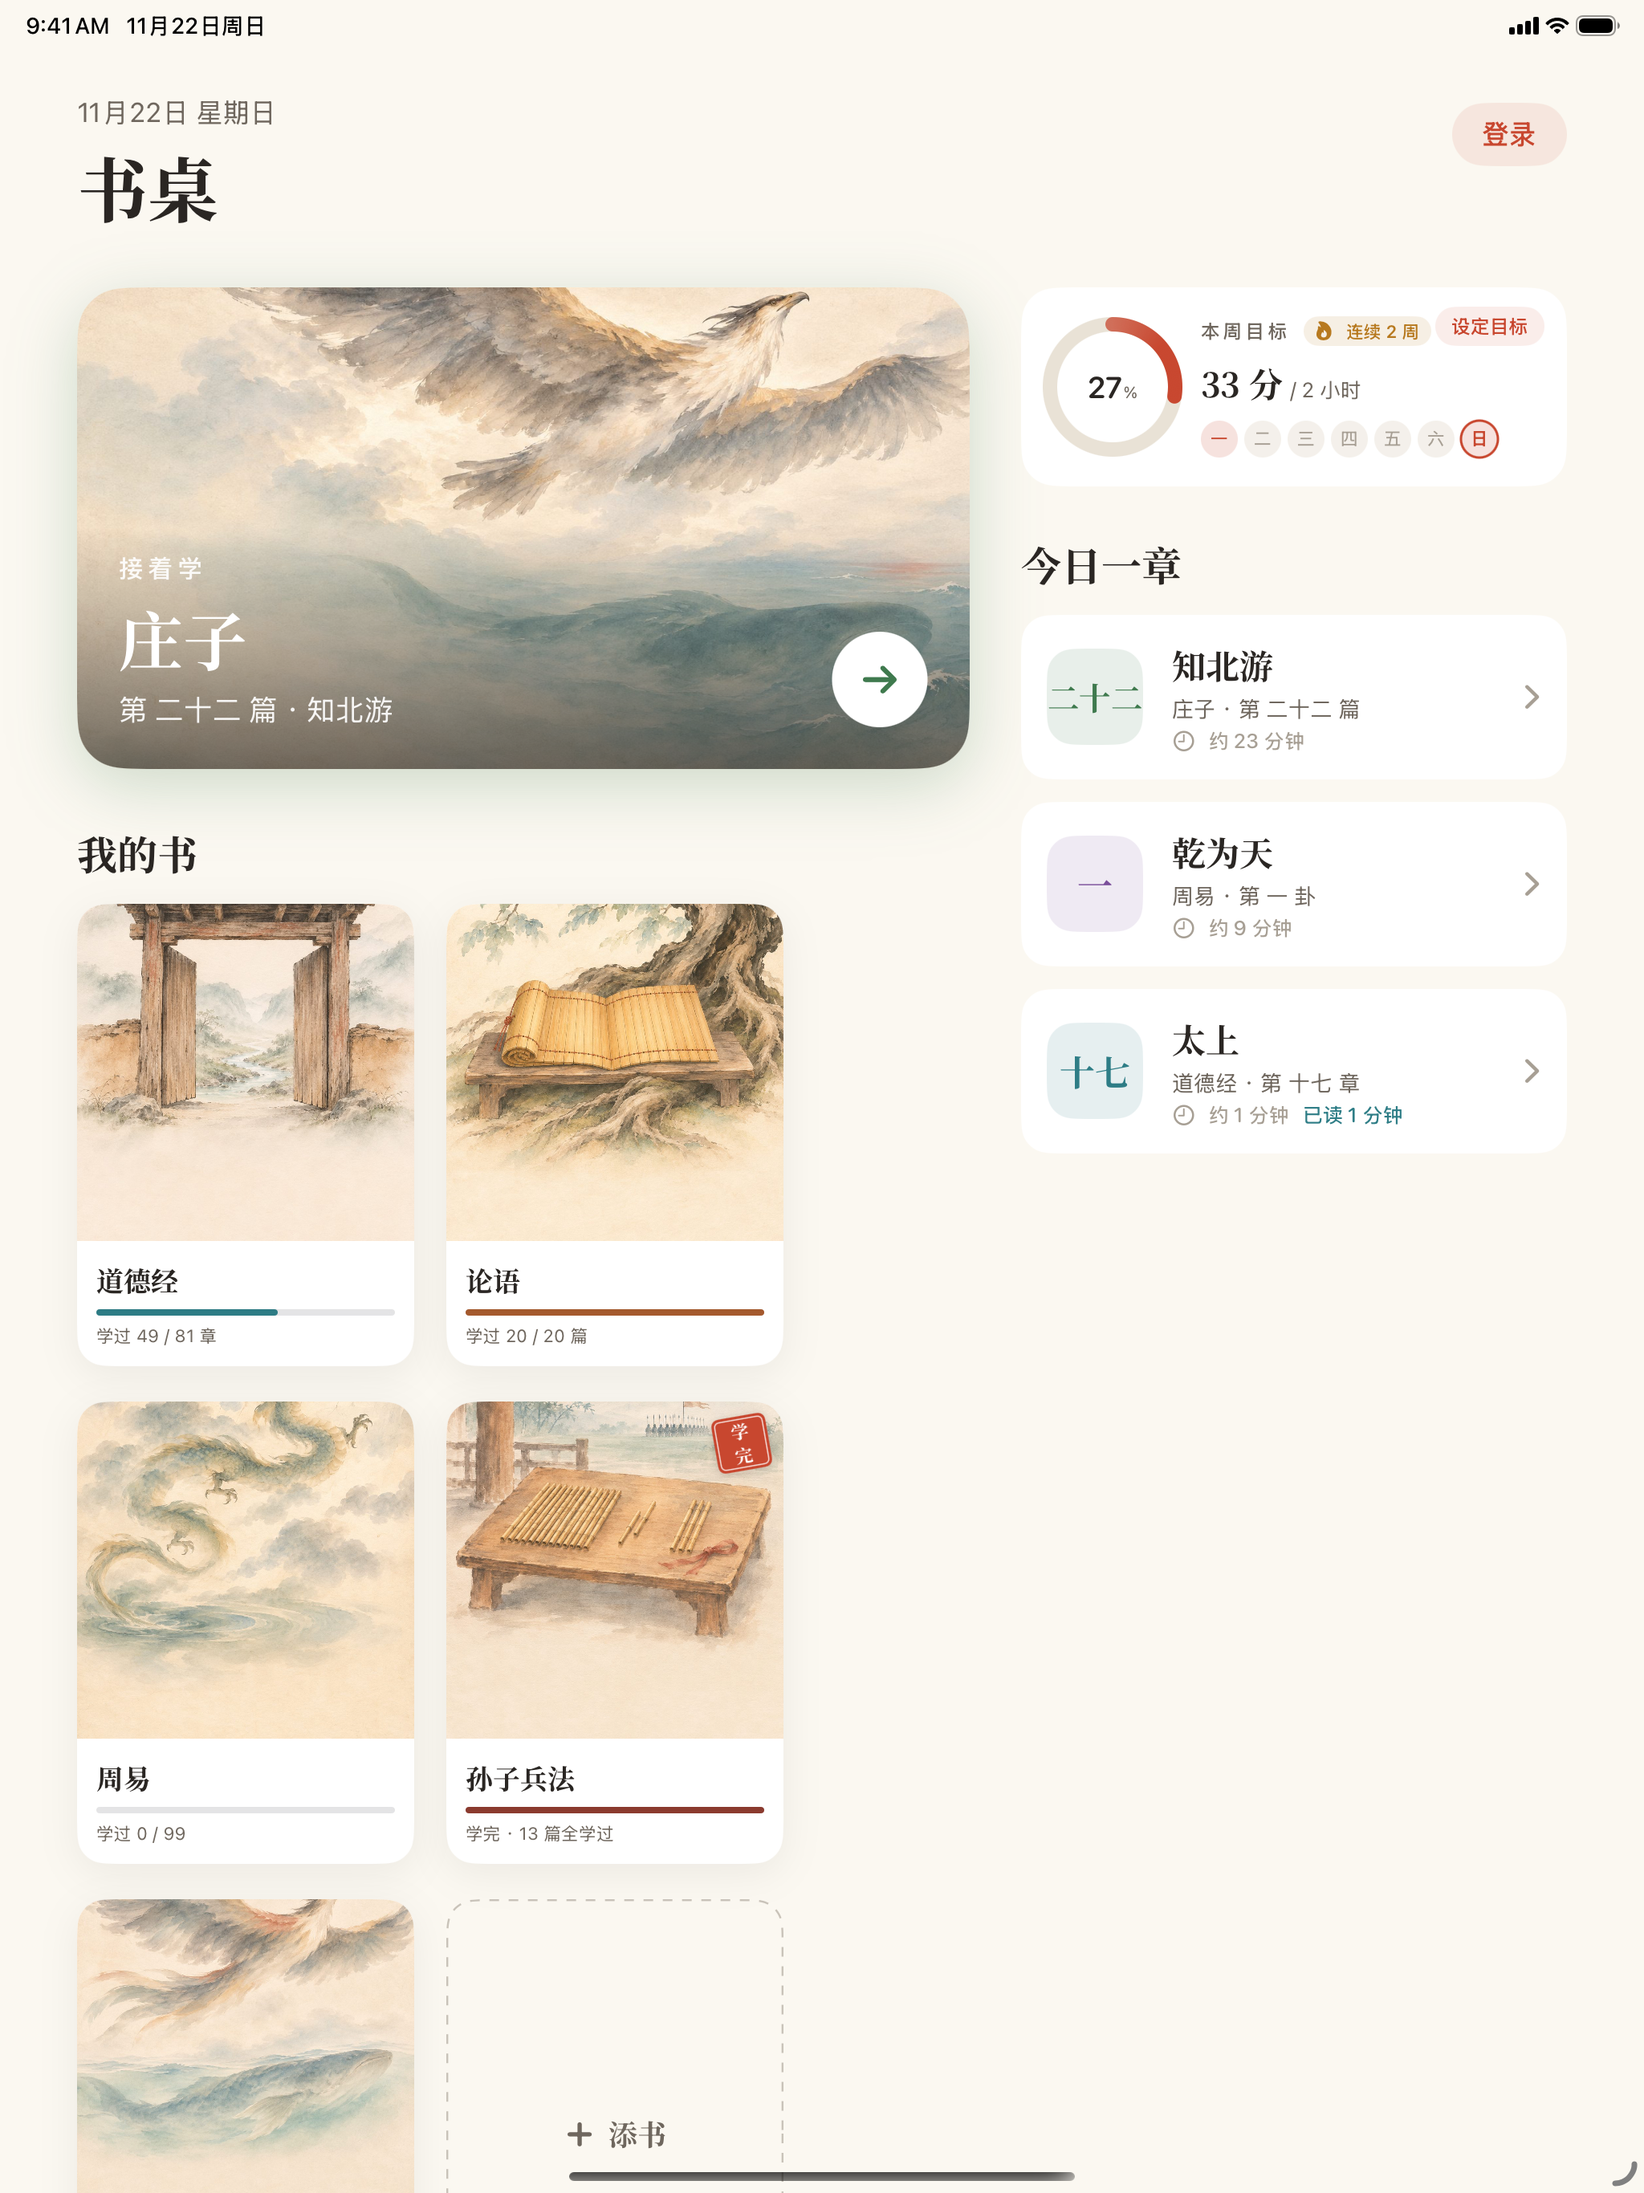
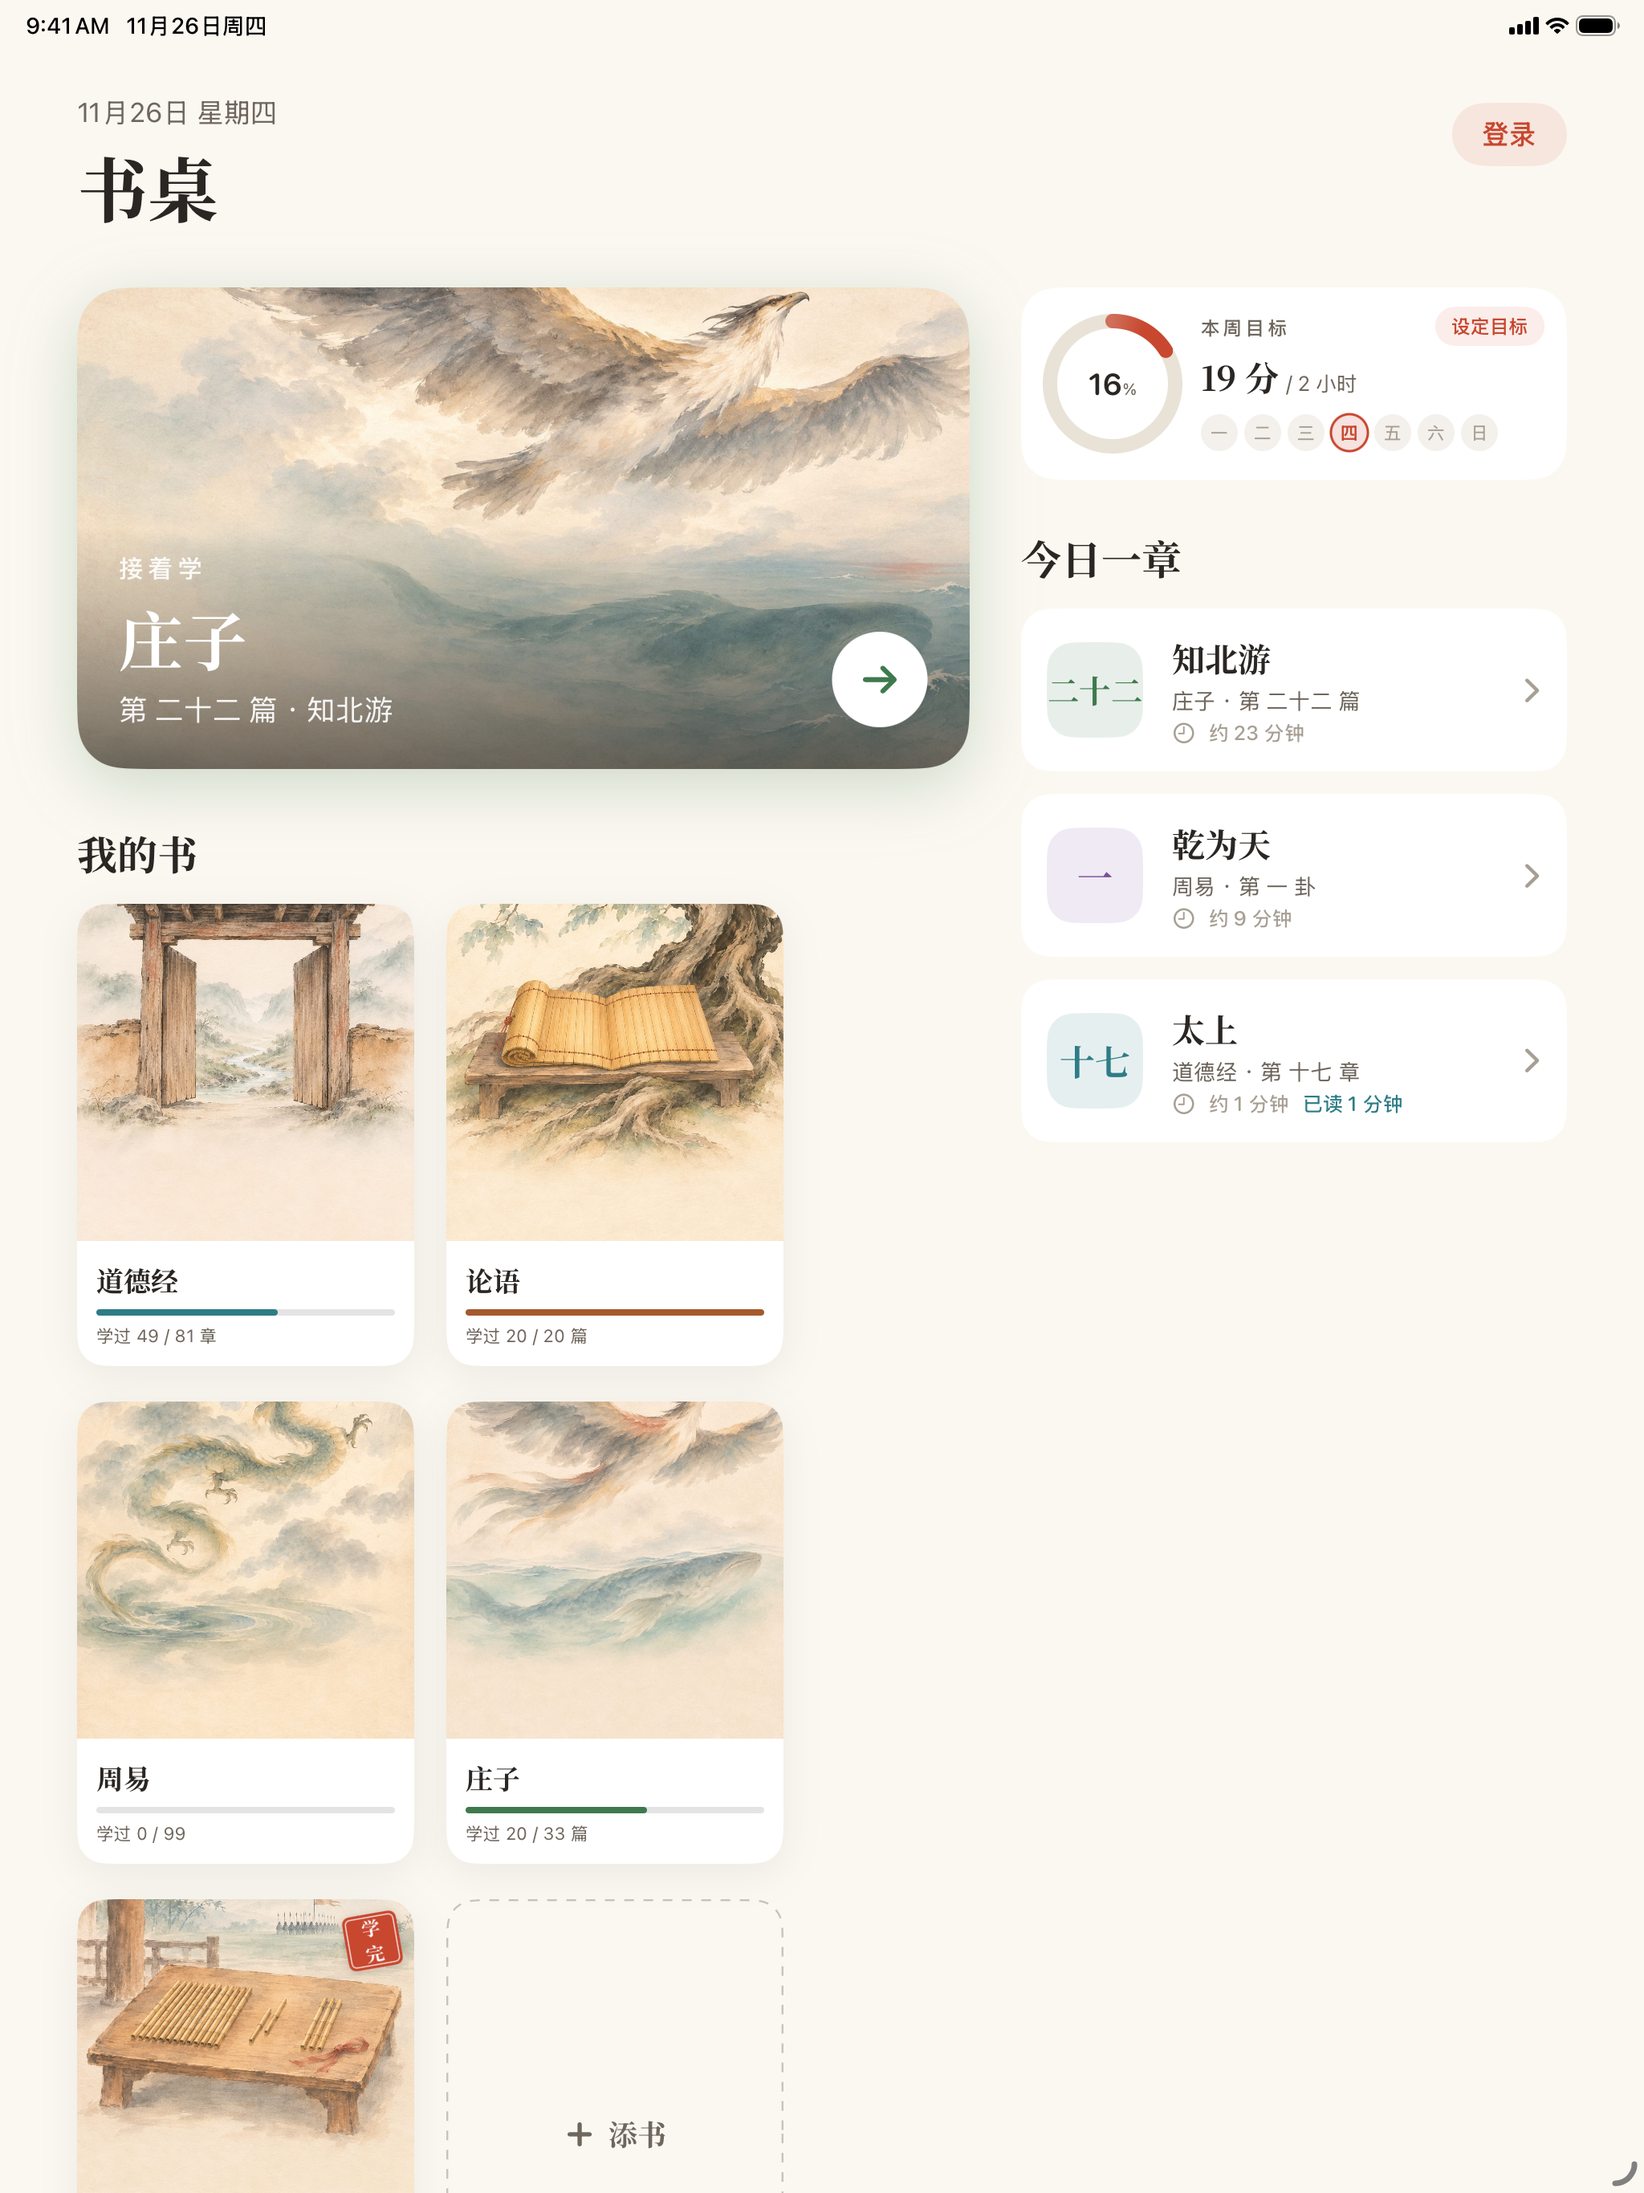
书桌送审材料按 79 部更新:商店文案与关键词重写、截图重截(两种尺寸各 9 张,加添书书目 / 书首页 / 导入的书)、送审备注补试导入与命理说明;隐私页补「导入的书只存本机」

diff --git a/src/features/PrivacyPage.jsx b/src/features/PrivacyPage.jsx
@@ -75,6 +75,7 @@ export default function PrivacyPage() {
           <li><strong>登录方式</strong>:邮箱、通过 Apple 登录、Google 登录。用 Apple 登录并选择隐藏邮箱时,我们只拿到 Apple 提供的中转地址。</li>
           <li><strong>换账号</strong>:同一台设备换另一个账号登录时,App 会先问你要不要把本机的记录并入新账号,不会自行合并。</li>
           <li><strong>注销账号</strong>:在 App 的账号页里可直接注销,云端数据随之删除;用 Apple 登录的账号,注销时一并向 Apple 撤销授权。</li>
+          <li><strong>导入的书</strong>:你自己导入的书包(.deskbook)只存在这台设备上,不上传、不同步,我们看不到它的内容;删掉这本书或删掉 App,它就没了。登录后,你在这本书里的阅读进度、学习时长、划线与批注照常同步(划线会带上划中的那几句原话),书本身仍不上传。</li>
           <li>App 内没有广告,没有第三方统计或追踪代码。</li>
         </ul>
       </section>

diff --git a/docs/desk-appstore.md b/docs/desk-appstore.md
@@ -7,17 +7,22 @@
 
 **名称**(30 字内):观象 · 书桌
 
-**副标题**(30 字内):只摆正在学的几本古籍
+**副标题**(30 字内):挑几部古籍,逐词详注着读
 
 **宣传文本**(170 字内,可随时改,不用过审):
-道德经、论语、周易、孙子兵法、鬼谷子、庄子,六部先上桌。原文一页一页翻,点一个词看详注,轻点一段看译文,读完一章再往深里读一篇白话。学了多少,有账可查。
+七十九部古籍,从周易、论语、道德经到古文观止、唐诗宋词、黄帝内经。挑几部摆上书桌,原文一页一页翻,点一个词看详注,轻点一段看译文,读完一章再读一篇白话长文。自己写的书也能做成书包导入。学了多少,有账可查。
 
 **描述**:
 
-书桌上不用摆很多书。挑几本正在学的,打开就接着上次读。
+书桌上不用摆很多书。从七十九部古籍里挑几部正在学的,打开就接着上次读。
+
+【书目】
+· 七十九部:易、道、儒、佛、心学、法、墨、兵、纵横、古文、诗词曲、中医、谋略、命理十四类
+· 原文取流传最广的通行本,逐段译文、字词注
+· 每部书有封面与题图,每章一张淡彩水墨题头
 
 【读原文】
-· 一页一页翻,字够大,版面干净
+· 一页一页翻,字够大,版面干净;iPad 横屏双栏
 · 轻点一段,展开这一段的译文
 · 点带虚线的词,先看一句话释义,再看一段展开——为什么这么讲、各家怎么说
 · 周易每卦带卦画,六爻、彖传、象传各归其位
@@ -25,12 +30,16 @@
 【往深里读】
 · 每章一篇白话长文,把这一章讲透
 · 文中的图解按手机和平板重新排过:对比、流程、结构、时间线、卦画
-· 每章一张淡彩水墨题图
 
 【划线与批注】
 · 原文、译文、白话都能划线,四种颜色,可加批注
 · 记录按书归拢,点一条回到原处
 · 长按选字,查这个词在本书里的全部出处
+
+【导入自己的书】
+· 按公开的「书包」格式(.deskbook)把自己的讲义、笔记做成一本书,从「文件」、隔空投送或一条链接导入
+· 导入的书只存在这台设备上,不上传
+· 带全书总纲、思维导图、「先想再看」问答的书,在书桌里有专门的版式
 
 【有账可查】
 · 记学习时长,不记打开次数
@@ -42,12 +51,10 @@
 · 登录后与观象网站(hexa.gavin.pub)共用账号,进度、时长、划线云端同步
 · 支持邮箱、通过 Apple 登录、Google 登录;可在 App 内注销账号
 
-首发六部:道德经、论语、周易、孙子兵法、鬼谷子、庄子。内容来自观象的研读底本:原文取通行本,逐段译注。
-
-本 App 用于古籍研习。周易部分只讲经传文本与义理,不提供占卜、算命功能。
+本 App 用于古籍研习。周易只讲经传文本与义理,命理诸书只作文献研读,都不提供占卜、排盘、算命功能;中医诸书只作训诂与医史阅读,不提供医疗建议。
 
 **关键词**(100 字符内,逗号分隔):
-古籍,国学,道德经,论语,周易,易经,庄子,孙子兵法,鬼谷子,文言文,译注,读书笔记,经典,阅读
+古籍,国学,文言文,译注,详注,白话,道德经,论语,周易,庄子,孙子兵法,唐诗,宋词,古文观止,读书笔记,划线
 
 **类别**:主类「图书」,次类「教育」
 
@@ -78,11 +85,14 @@
 
 > 本 App 与同一开发者的「观象」(bundle id pub.gavin.hexa)内容同源,但不是同一个产品:
 > 「观象」是网页套壳的书库(一百多部书的检索与浏览);「观象 · 书桌」是纯原生(SwiftUI / TextKit)的学习工具,
-> 只放用户自己选的几本书,核心是分页阅读、逐词详注、划线批注、学习时长统计与每周目标,这些在「观象」里没有。
+> 只放用户自己选的几本书,核心是分页阅读、逐词详注、划线批注、学习时长统计与每周目标,以及导入用户自己做的书包(.deskbook),这些在「观象」里没有。
 > 两者共用账号,便于用户在两端接续。
 >
 > 测试账号:(owner 送审前在生产建一个专用的测试账号,填在这里;也可以不登录直接使用全部阅读功能)
-> 周易部分仅为经传文本与注释的阅读,不含占卜或运势功能。
+> 添书:首页「添书」列出全部 79 部古籍,点一部即下载到本机。
+> 导入:书包(.deskbook)格式是公开的(https://hexa.gavin.pub/desk/standard/)。试导入:复制 https://hexa.gavin.pub/desk/standard/samples/sample-book.deskbook → 首页「添书」→ 左上角「导入」→「粘贴书包链接」;也可用「文件」打开 .deskbook。导入的书只存在设备上,不上传服务器。
+> 「书房」入口只对开发者本人的账号显示,审核账号看不到,属正常。
+> 周易部分仅为经传文本与注释的阅读;命理类古籍(如《渊海子平》《滴天髓》)只提供原文、译文与注释,不含排盘、占卜或运势功能。中医类古籍只作文献阅读,不提供医疗建议。
 > 注销账号:首页右上角账号 → 关于 / 账号 → 注销账号。
 
 **4.3(重复 App)风险**:同一开发者、内容同源、名字都带「观象」。上面的备注是对策,不保证一次过;被拒时的退路是在备注里补截图对照,或把名字改成不带「观象」的(如只叫「书桌」)。
@@ -97,14 +107,14 @@
 4. **隐私页补一节**:`/privacy` 加「观象 · 书桌」:收集什么、存在哪、怎么注销(我可以先写好,随第 1 项一起发)。
 5. **测试账号**:在生产建一个送审用的账号(我不在生产建账号)。
 6. ~~挑图标~~:owner 11-22 选了 ③ 灯,已接进工程(`Assets.xcassets/AppIcon.appiconset/icon-1024.png`,Codex 写的 prompt 留在 `apps/desk/store/icon-prompt.txt`)。
-7. **定稿文案**、看一遍商店截图(`apps/desk/store/shots/`)。
+7. **定稿文案**、看一遍商店截图(`apps/desk/store/shots/`,11-26 按 79 部重截,两种尺寸各 9 张)。
 8. **真机走一遍**:TestFlight 装上后,三种登录各走一次(Apple 登录与真 Google 登录在模拟器里没法验),云同步在两台设备间对一次,注销账号走一次。
 9. 开口说「送审」。
 
 **我这边在送审前做完的(M6)**
 - App 打磨、换账号前询问、字号设置、离线与出错状态、各尺寸 iPad 版式、关于页、隐私清单、Release 配置核对。
 - `apps/desk/ship.sh`(归档 → 导出 → 上传,照 `ship-ios.sh` 的做法)写好不运行。
-- 商店截图脚本与成品(iPhone 6.9 寸、iPad 13 寸各 6 张)。
+- 商店截图脚本与成品(iPhone 6.9 寸、iPad 13 寸各 9 张;11-26 重截:加了书首页、添书书目、导入的书)。
 - 服务端加固(已入库,676 项测试全过):Apple 登录必核 nonce、Google 原生登录强制 PKCE、注销账号时向 Apple 撤销授权。迁移 0007 因此多加了两列(`refresh_token` / `refresh_aud`),仍须**先上远端 D1 再发代码**。
 
 ## 5 · 版本号约定

diff --git a/docs/todo.md b/docs/todo.md
@@ -51,7 +51,7 @@
 - **书桌总待办(2026-11-26 按现状重理;每项等 owner trigger 再动)**
   - **已到线上(11-24)**:生产 1.35.34、书桌 1.0.0 (4) 上 TestFlight、书房 153 本换成新书包。含:观书「总纲 / 分章」两层形态 · 典籍插画 78 本 2034 张(入库 `public/desk/v1/art/`,owner 定「先放仓库,再大再放对象存储」)· 观书插画 1828 张(在书包里)· 详注 77 本 · iPad 横屏长译文框少一行(根因已修,有回归测试)· 脑图节点稳定 id 与截短整句 `full`、「读这一章」点按穿透 · VoiceOver 走查与补齐 · 书房上传页在观象 App 壳里可用(前端已发,壳要等新包)· 默认封面长书名、生僻字回退字体、统计省内存(11-23 `57096227`)。
   - **A · 等 owner 的**:① 真机验 build 4(观书新形态、插画、长按划线含 iPad 右栏、三种登录与同步、导入书包、书房加书、脑图、iPad 横屏长译文、VoiceOver 开着走一遍);② Sign in with Apple 密钥三个 secret;③ 生产建送审测试账号;④ 商店文案定稿;⑤ 说「送审」(清单 `desk-appstore.md` §4);⑥ 两批样图(`docs/review/art-2026-11-23*/`,未入库)的意见;⑦ skill 要不要装到 `~/.claude/skills/deskbook`。
-  - **B · 送审前我这边还欠的(没做)**:① 商店文案与截图过期——`desk-appstore.md` 还写「首发六部」,截图是六本时期的;现在是 79 部典籍、导入书包、脑图、插画,要重写重截;② 送审备注补两句:导入的书只存本机、书房仅管理员可见(审核员看到的是空的);③ 隐私页「观象 · 书桌」一节核对是否已含「导入的书不上传」。
+  - **B · 送审前我这边的三条(11-26 做完)**:① 商店文案按 79 部重写(`desk-appstore.md` §1,加了书目、导入自己的书,命理只作文献研读、中医不提供医疗建议)、截图重截(两种尺寸各 9 张,加了添书书目、书首页、导入的书);② 送审备注补了添书、试导入的样例链接、书房对审核账号不显示、命理不含排盘;③ 隐私页「观象 · 书桌」一节补「导入的书只存本机」——**已提交未发生产**,送审前随下一次发生产一起上。
   - **C · 详注长线**:见下条(停着,等 owner 发话)。
   - **D · 观象 App(套壳)**:要带上 77 本详注与书房上传页修复得打新包;1.35.26 上次看仍在等审核,新版本建不了(1.35.28 build 68 也压着)。
   - **E · 书桌 App 剩下的欠账**:命理九本白话里的交互小件 446 处被去掉(没有原生实现,要 owner 定做不做)· 白话深读里的划线没有 VoiceOver 入口 · 没验过的:iPad 横屏诗体(只看过头几页)、默认封面深色、iPad 横屏脑图、译文框修复的真机表现 · 《难经》没有白话所以没有插画 · 旧包读新书目只会平铺(发版要连带新包)。
